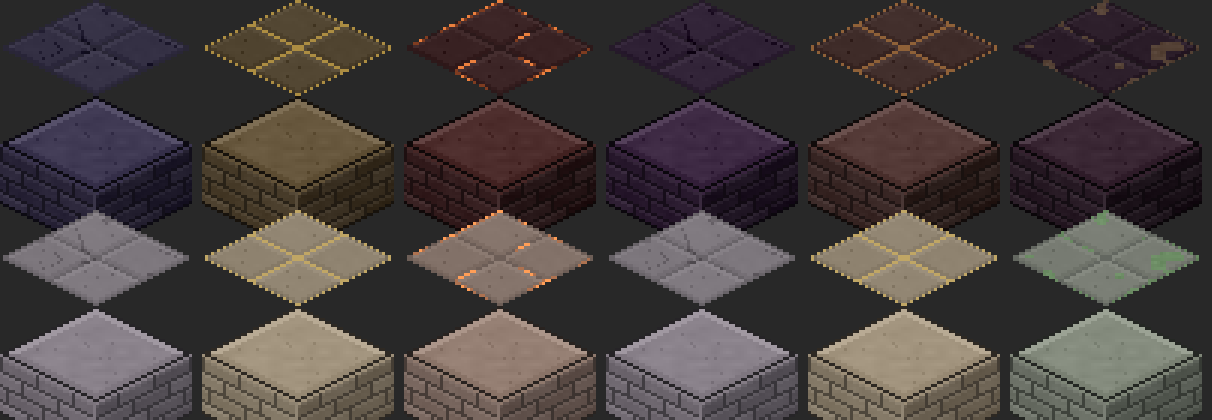
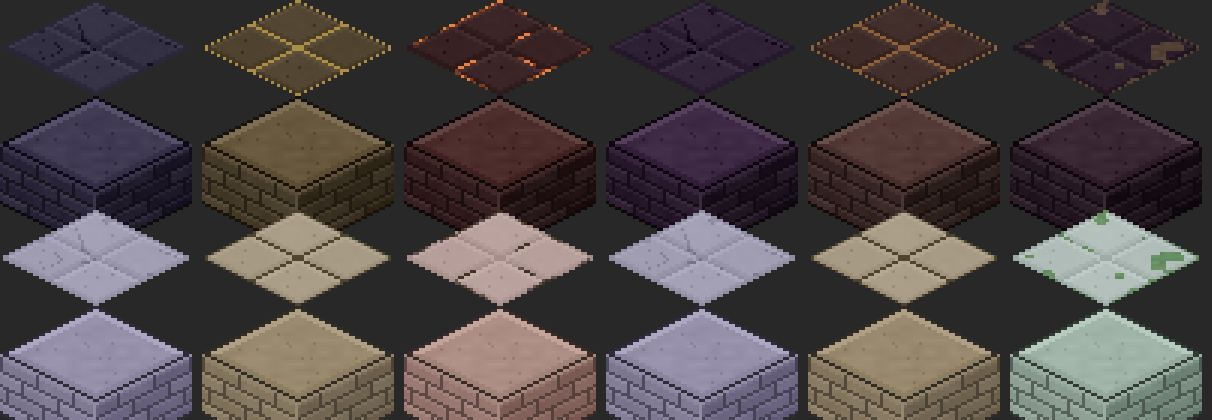
Ascent zones: the world is inverted (lightness flipped, glowing patterns sink dark), named Inverted
Claude-Session: https://claude.ai/code/session_01XMEo4x59g4Ygvken3HiQNb

diff --git a/Game/Assets/Scripts/Map/Zones.cs b/Game/Assets/Scripts/Map/Zones.cs
@@ -25,9 +25,9 @@ namespace VividOfFade
         public Color32 Slime;       // その区画のスライムの色
         public Color32 SlimeDark;
         public int Cycle;           // 何周目か（周を重ねるほど深淵に侵され、名前の頭に言葉が付く）
-        public bool Bright;         // 昇る塔（クリア後）：光が差して明るくなった区画
+        public bool Bright;         // 昇る塔（クリア後）：明暗が反転した区画
 
-        public string Title => (Bright ? Loc.T("Sunlit ", "光差す") : CyclePrefix(Cycle)) + Loc.T(Name, NameJa);
+        public string Title => (Bright ? Loc.T("Inverted ", "反転した") : CyclePrefix(Cycle)) + Loc.T(Name, NameJa);
 
         /// <summary>周ごとに区画の名前の頭に付ける言葉（深淵に近づいていく）。</summary>
         public static string CyclePrefix(int cycle)
@@ -261,22 +261,33 @@ namespace VividOfFade
         static readonly System.Collections.Generic.Dictionary<string, ZoneSpec> brightCache = new System.Collections.Generic.Dictionary<string, ZoneSpec>();
 
         /// <summary>
-        /// 昇る塔の区画：光が差して明るくなった版。床・壁は暖かい白へ寄せ、全体の光を強め、迷宮の外（背景）も明るい空の色にする。
+        /// 昇る塔の区画：世界が反転した版。色味はそのままで明暗だけをひっくり返す（暗い石は明るく、光っていた模様は暗く沈む）。
+        /// 壁は上の面がいちばん明るくなるように並べ直す。迷宮の外（背景）も明るい色になる。
         /// </summary>
         static ZoneSpec Brighten(ZoneSpec b)
         {
             if (brightCache.TryGetValue(b.Name, out var cached)) return cached;
-            var warm = new Color32(250, 240, 222, 255);
-            Color32 L(Color32 c, float m) => Color32.Lerp(c, warm, m);
+            // 明暗の反転：色相と（少し抑えた）彩度はそのまま、明るさ v を 1 - v へ
+            Color32 Inv(Color32 c, float vScale = 1f, float satScale = 0.7f)
+            {
+                // いちばん明るい成分を v とし、各成分の v からの差（色味）を保ったまま、v だけを反転させる
+                float r = c.r / 255f, g = c.g / 255f, bl = c.b / 255f;
+                float v = Mathf.Max(r, Mathf.Max(g, bl));
+                float nv = Mathf.Clamp01((0.97f - v * 0.9f) * vScale);
+                float k = satScale * (v > 0.001f ? Mathf.Min(1.5f, nv / Mathf.Max(v, 0.25f)) : 1f); // 明るくなった分だけ色味も少し広げる
+                return new Color32((byte)(Mathf.Clamp01(nv - (v - r) * k) * 255f), (byte)(Mathf.Clamp01(nv - (v - g) * k) * 255f), (byte)(Mathf.Clamp01(nv - (v - bl) * k) * 255f), 255);
+            }
+            var top = Inv(b.WallTop);
+            var floor = Inv(b.Floor);
             var z = new ZoneSpec
             {
                 Name = b.Name, Subtitle = b.Subtitle, NameJa = b.NameJa, SubtitleJa = b.SubtitleJa, Pattern = b.Pattern,
-                Floor = L(b.Floor, 0.38f), FloorAlt = L(b.FloorAlt, 0.34f), Edge = L(b.Edge, 0.25f),
-                Accent = Color32.Lerp(b.Accent, new Color32(255, 255, 255, 255), 0.15f),
-                WallTop = L(b.WallTop, 0.4f), WallLeft = L(b.WallLeft, 0.32f), WallRight = L(b.WallRight, 0.26f),
-                AmbientColor = Color.Lerp(b.AmbientColor, new Color(1f, 0.96f, 0.88f), 0.6f),
+                Floor = floor, FloorAlt = Inv(b.FloorAlt, 0.97f), Edge = Inv(b.Floor, 0.8f), // 縁は床より少しだけ暗く（敷石の境目が見えるように）
+                Accent = Inv(b.Accent, 1f, 1f), // 光っていた模様は、暗く沈んだ色に
+                WallTop = top, WallLeft = Inv(b.WallTop, 0.86f), WallRight = Inv(b.WallTop, 0.74f),
+                AmbientColor = new Color(1f, 0.97f, 0.92f),
                 Ambient = Mathf.Max(b.Ambient + 0.16f, 0.38f),
-                Background = Color.Lerp(b.Background, new Color(0.72f, 0.8f, 0.92f), 0.85f), // 迷宮の外は、明るい空の色
+                Background = Color.Lerp((Color)Inv(Color32.Lerp(new Color32(0, 0, 0, 255), (Color32)b.Background, 1f)), new Color(0.85f, 0.86f, 0.9f), 0.4f), // 迷宮の外も反転して明るい色に
                 Slime = b.Slime, SlimeDark = b.SlimeDark, Cycle = 0, Bright = true,
             };
             brightCache[b.Name] = z;
